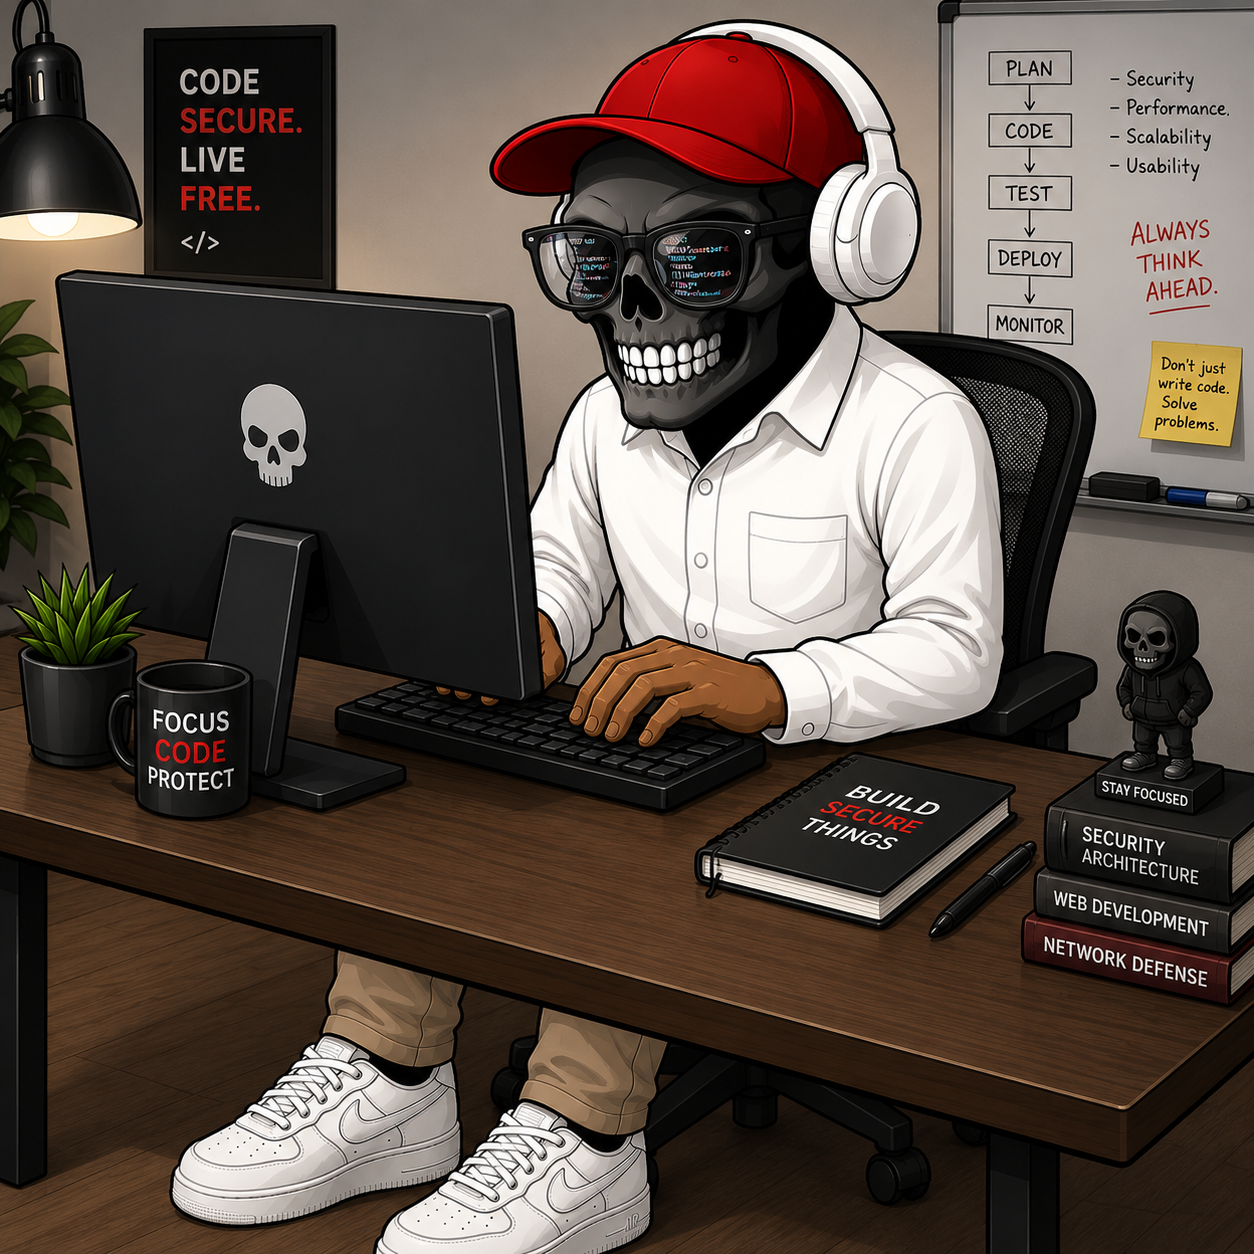
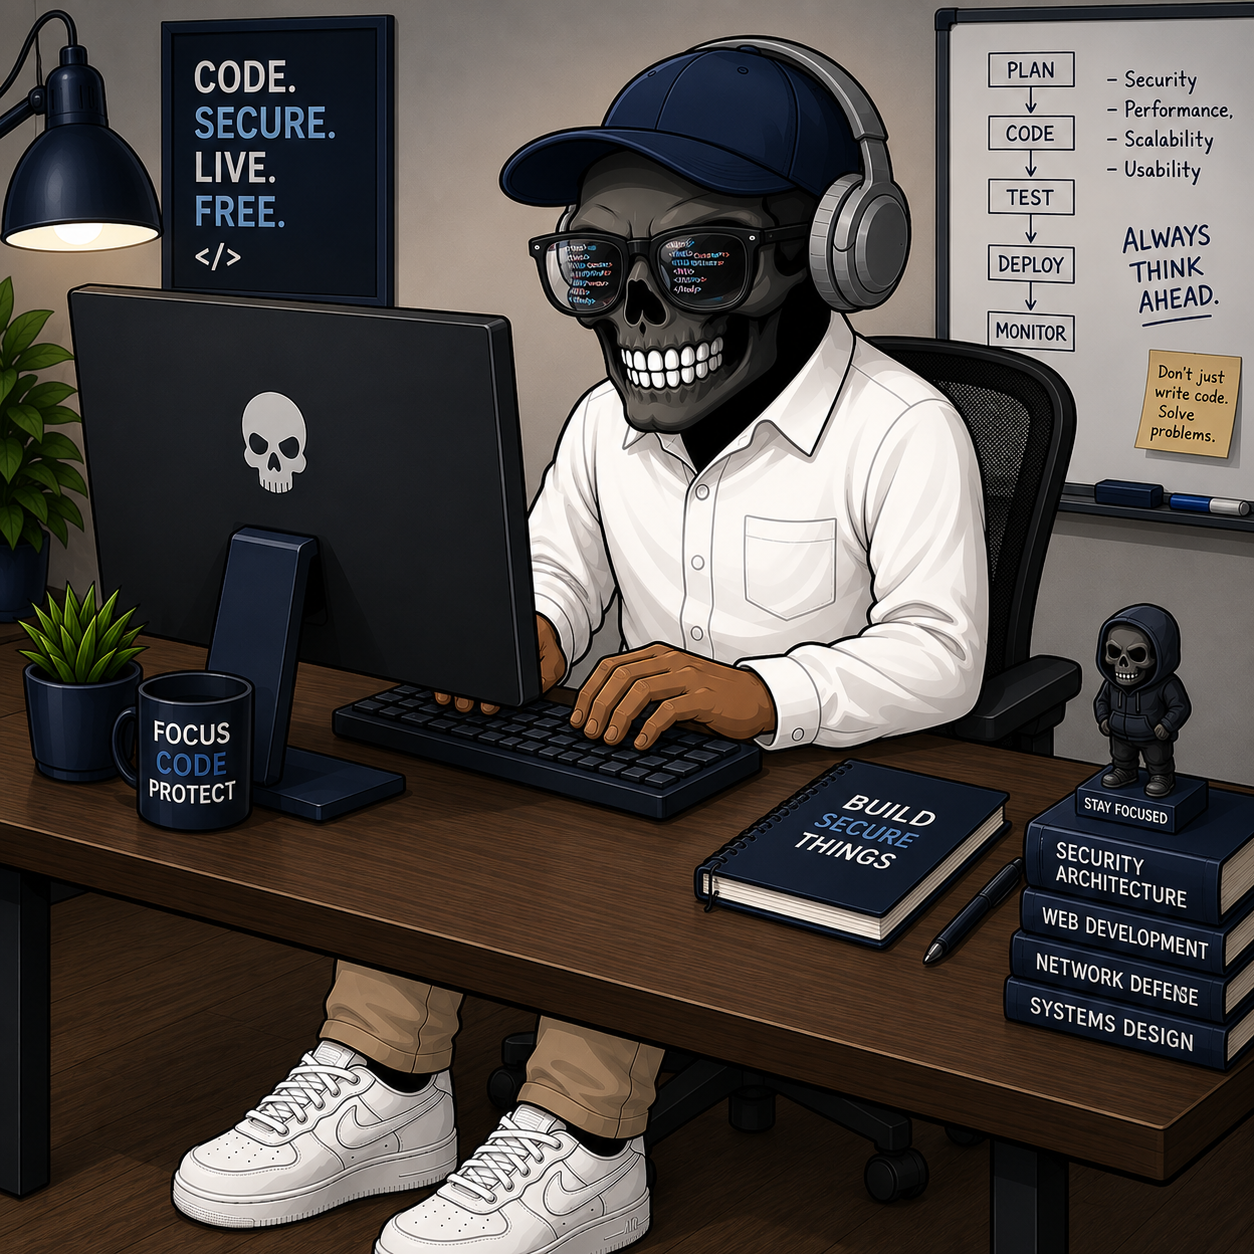
Update resume link, update skills section, and About details

diff --git a/index.html b/index.html
@@ -89,7 +89,7 @@
         </p>
 
         <div class="btn-box btns">
-             <a href="https://docs.google.com/document/d/1RJaxArQ1SRGqrklEEwV4ifGxldVCQTxitspBKg_W40A/edit?tab=t.0" target="_blank" class="btn">RESUME Ext</a>
+             <a href="https://docs.google.com/document/d/1h7aGBV-z5bYSzRYd3wwPS5e0GeqBg8ZAuko1IC_DUGc/edit?tab=t.0" target="_blank" class="btn">RESUME Ext</a>
             <span class="animate scroll" style="--i:5;"></span>
         </div>
     </div>
@@ -140,17 +140,17 @@
             <div class="education-box">
                 <div class="education-content">
                     <div class="content">
-                        <div class="year"><i class='bx bxs-calendar'></i> 2022 - 2025
+                        <div class="year"><i class='bx bxs-calendar'></i>present
                         </div>
-                        <h3>Junior Network Admin. </h3>
-                        <p>Managed and optimized backend system and network configurations, including routers, switches, and firewalls. Administered Active Directory and Microsoft 365 environments, handling user provisioning, group policies, and access permissions. Implemented patch management and system update schedules to maintain reliability and security across servers and endpoints. Resolved escalated tickets in network and system troubleshooting, ensuring minimal downtime and accurate documentation within ticketing systems.</p>
+                        <h3>Full-Stack Developer </h3>
+                        <p>Designed and developed a full-stack web application using Node.js, Express, MongoDB, HTML, CSS, and JavaScript; implemented JWT authentication, questionnaire workflows, scheduling and payment system integrations, admin dashboard functionality, and responsive frontend interfaces while managing debugging, API communication, and ongoing feature updates through GitHub version control. Implemented JWT authentication systems, protected routes, session management, role-based administrative controls, analytics dashboards, scheduling workflows, and monitoring features for production-style applications.</p>
                     </div>
                 </div>
 
                 <div class="education-content">
                     <div class="content">
                         <div class="year"><i class='bx bxs-calendar'></i> 2024 - Present </div>
-                        <h3>Senior Software Programmer </h3>
+                        <h3>Software Developer </h3>
                         <p>Designed and developed a unique cybersecurity profile website using VS Code and  ChatGPT troubleshooting, leveraging advanced JavaScript and CSS. Implement  interactive features such as a custom-built two-factor authentication (2FA) simulation.  Utilized GitHub remote repositories for version control and deployment, ensuring  seamless updates and continuous improvement of site functionality, design, and  security features to reflect evolving technical skills and recent professional  achievements.
 </p>
                     </div>
@@ -159,8 +159,8 @@
                 <div class="education-content">
                     <div class="content">
                         <div class="year"><i class='bx bxs-calendar'></i> 2022 - 2025 </div>
-                        <h3>All Experience - Miscellaneous </h3>
-                        <p>Configuring, implementing, and troubleshooting computer hardware and peripheral devices across enterprise environments. Proficient in installing and organizing computer cables, workstations, and network connections to ensure optimal system performance. Experienced in setting up new staff orientation labs, including imaging systems, connecting hardware, and verifying software readiness. Known for delivering efficient technical support and maintaining reliable, well-organized IT environments that enhance productivity and user experience. <a href="https://www.credly.com/badges/40a81501-84d5-4a9a-877d-c8142b94365e/linked_in_profile">IBM SkillsBuild: Information Technology Fundamentals Certification</a></p>
+                        <h3>Youth Human Services </h3>
+                        <p>Ensured compliance with policy guidelines and maintained a positive and supportive environment; qualities valuable for front-line client support. Implementation of proper verbal iterations/reiterations to clients. Reinforced organizational skills, documentation accuracy, and professional communication in daily operations.Complete weekly target behavioral observational checklists. Manage inventory of observational checklists, behavioral observation files, and target behavioral observation files. Proper completion and filing of incident reports and assist co-workers with completion of incident reports via intranet app.</p>
                     </div>
                 </div>
 
@@ -176,7 +176,7 @@
 
  <div class="skills-row">
     <div class="skills-column">
-        <h3 class="title">Cybersecurity Skills<span class="animate scroll" style="--i:2;"></span></h3>
+        <h3 class="title">Dev Skills<span class="animate scroll" style="--i:2;"></span></h3>
 
     <div class="skills-box">
         <div class="skills-content">
@@ -187,17 +187,17 @@
                 </div>
 
                 <div class="progress">
-                    <h3>SQL <span>80%</span></h3>
+                    <h3>JavaScript <span>80%</span></h3>
                     <div class="bar"><span></span></div>
                 </div>
 
                 <div class="progress">
-                    <h3>JavaScript <span>60%</span></h3>
+                    <h3>A.I. <span>60%</span></h3>
                     <div class="bar"><span></span></div>
                 </div>
 
                 <div class="progress">
-                    <h3>Python <span>80%</span></h3>
+                    <h3>Debugging <span>80%</span></h3>
                     <div class="bar"><span></span></div>
                 </div>
             </div>
@@ -212,22 +212,22 @@
         <div class="skills-content">
 
                 <div class="progress">
-                    <h3>Network Admin. <span>70%</span></h3>
+                    <h3>Dev Logs <span>70%</span></h3>
                     <div class="bar"><span></span></div>
                 </div>
 
                 <div class="progress">
-                    <h3>Security Operations <span>60%</span></h3>
+                    <h3>Linux CLI <span>60%</span></h3>
                     <div class="bar"><span></span></div>
                 </div>
 
                 <div class="progress">
-                    <h3>Security Audits <span>70%</span></h3>
+                    <h3>Network Troubleshooting <span>70%</span></h3>
                     <div class="bar"><span></span></div>
                 </div>
 
                 <div class="progress">
-                    <h3>Linux Command Line <span>90%</span></h3>
+                    <h3>Patience <span>90%</span></h3>
                     <div class="bar"><span></span></div>
                 </div>
             </div>

diff --git a/about/about.html b/about/about.html
@@ -55,7 +55,7 @@
                     <span class="animate" style="--i:3;"></span>
                 </div>
                 <p>
-    I am a security-focused software developer with experience building full-stack web applications, authentication systems, monitoring tools, and client management platforms using JavaScript, Node.js, Express, MongoDB, and REST APIs. I earned my Google Cybersecurity Professional Certificate through Merit America/Coursera, where I gained hands-on experience in network security, threat detection, incident response, Python security automation, Linux command-line tools, SQL, and SIEM-based monitoring systems.
+     I am a security-focused software developer with experience building full-stack web applications, authentication systems, monitoring tools, and client management platforms using JavaScript, Node.js, Express, MongoDB, and REST APIs. I earned my Google Cybersecurity Professional Certificate through Merit America/Coursera, where I gained hands-on experience in network security, threat detection, incident response, Python security automation, Linux command-line tools, SQL, and SIEM-based monitoring systems.
     <br><br>
 
 